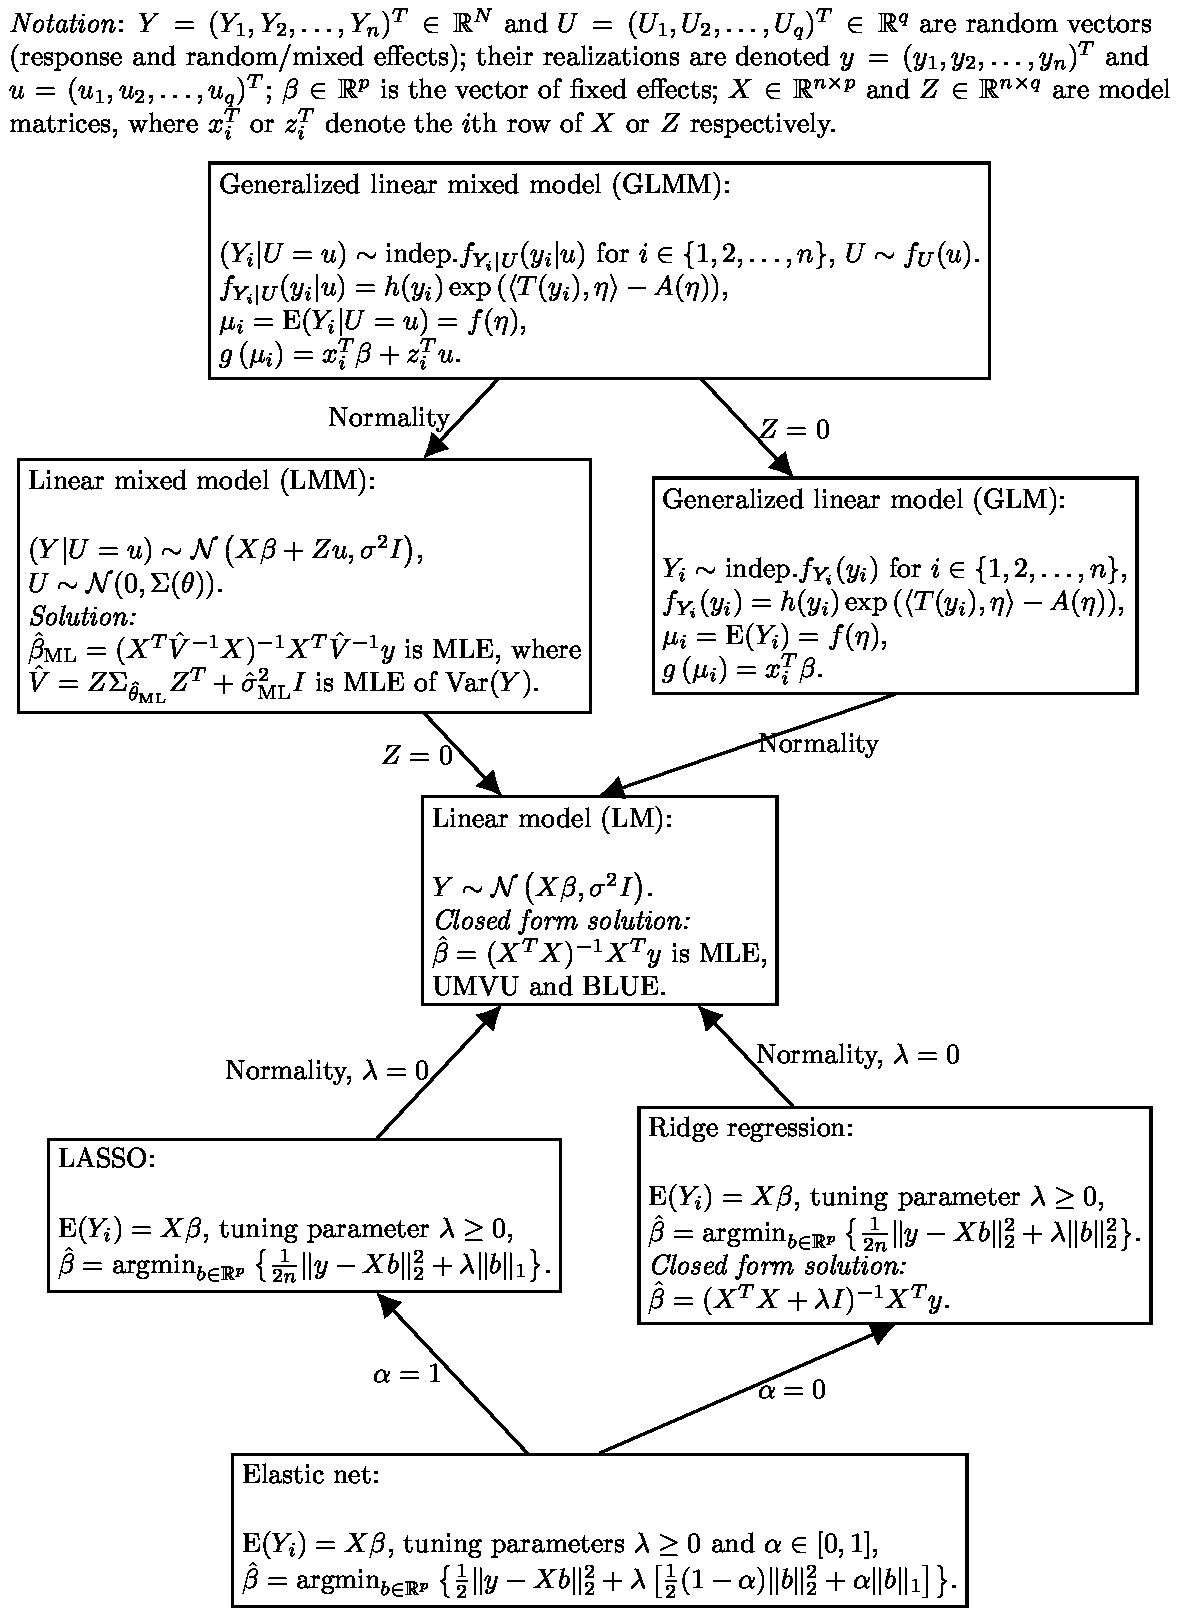
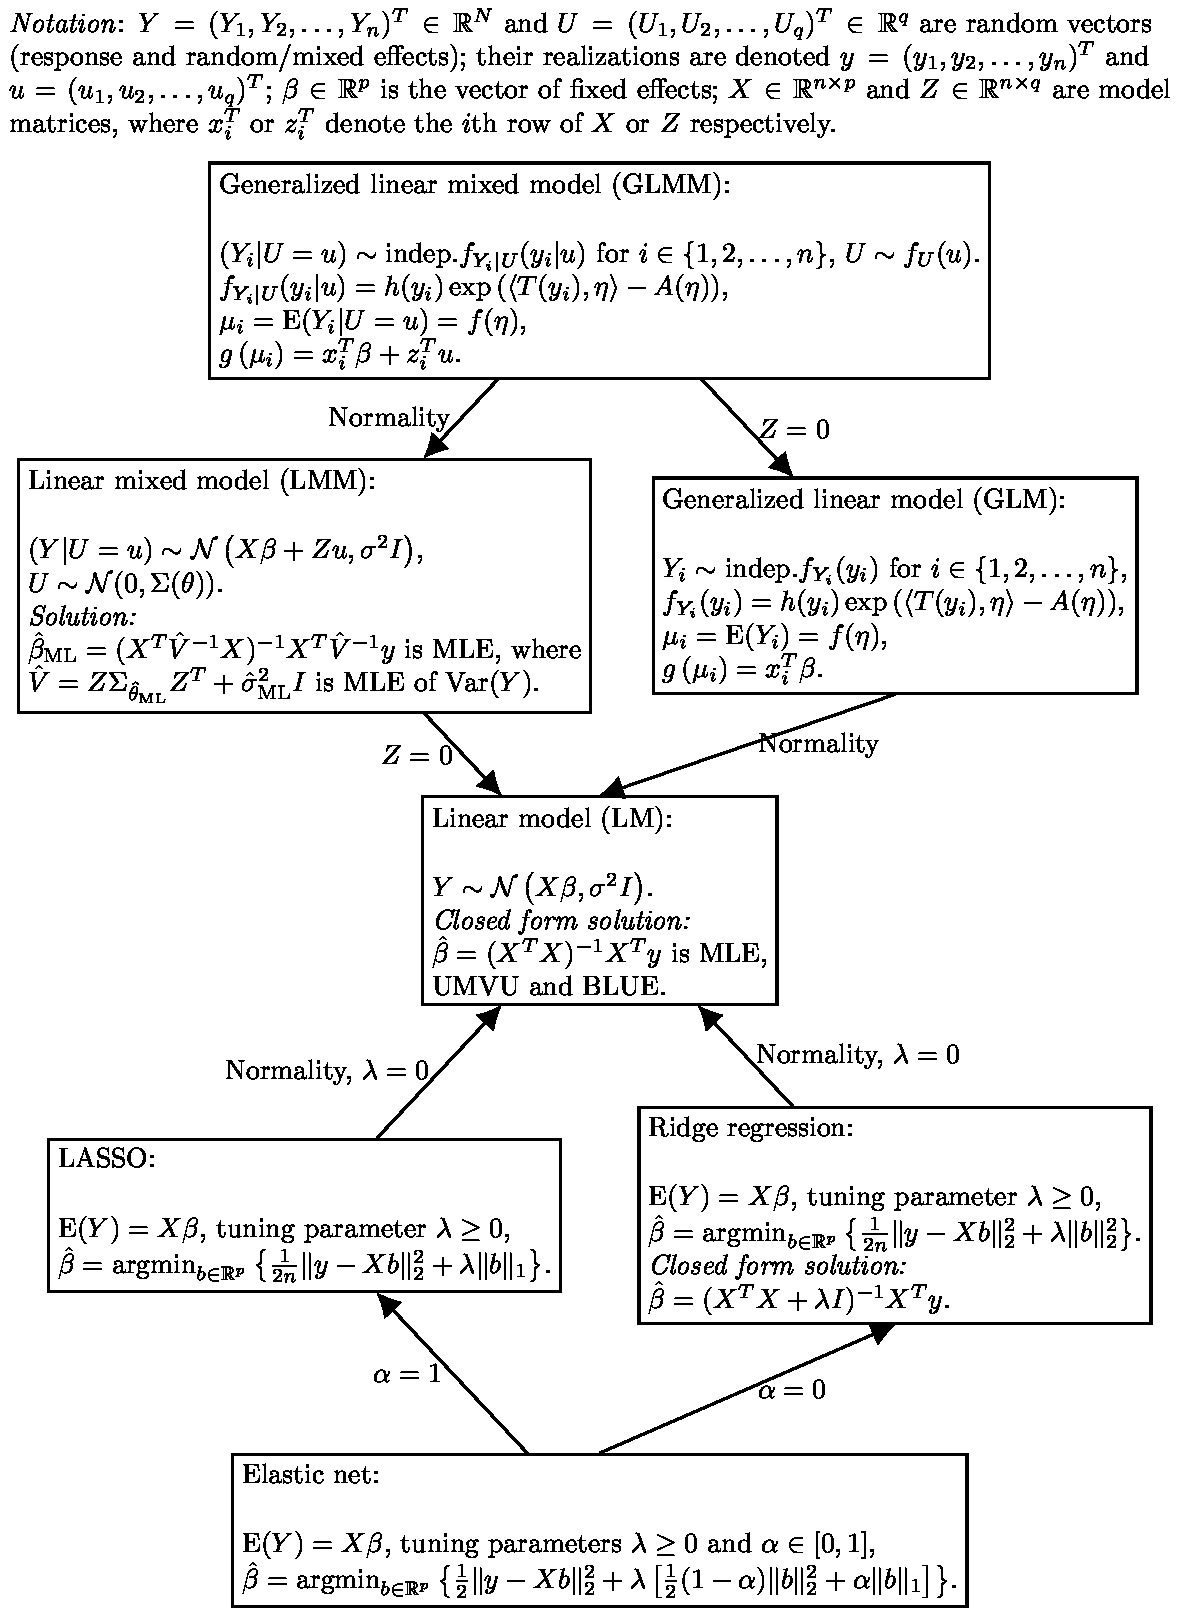
fixes a typo

diff --git a/flowchart.tex b/flowchart.tex
@@ -48,7 +48,7 @@
                     UMVU and BLUE.} 
                   child { node[draw, align=left] (LASSO)
                             {LASSO:\\ \vspace{1pt} \\
-                            $\mathrm{E}(Y_i) = X\beta$, tuning parameter $\lambda \geq 0$,\\
+                            $\mathrm{E}(Y) = X\beta$, tuning parameter $\lambda \geq 0$,\\
                             $\hat{\beta} = \mathrm{argmin}_{b\in\R^p} \left\{ \frac{1}{2n} \|y - Xb\|_2^2 + \lambda \|b\|_1 \right\}$.}
                           child [missing]
                           child [missing]
@@ -57,7 +57,7 @@
                           child [missing]
                           child { node[draw, align=left] (Elastic)
                                     {Elastic net:\\ \vspace{1pt} \\
-                                    $\mathrm{E}(Y_i) = X\beta$, tuning parameters $\lambda \geq 0$ and $\alpha\in[0,1]$,\\
+                                    $\mathrm{E}(Y) = X\beta$, tuning parameters $\lambda \geq 0$ and $\alpha\in[0,1]$,\\
                                     $\hat{\beta} = \mathrm{argmin}_{b\in\R^p} \left\{ \frac{1}{2} \|y - Xb\|_2^2 + \lambda \left[ \frac{1}{2}(1-\alpha)\|b\|_2^2 + \alpha\|b\|_1 \right] \right\}$.} 
                                   % edge label for Elastic net-LASSO edge
                                   edge from parent[<-] node[left, draw=none] {$\alpha=1$} }
@@ -69,7 +69,7 @@
                   child [missing]
                   child { node[draw, align=left] (Ridge)
                             {Ridge regression:\\ \vspace{1pt} \\
-                            $\mathrm{E}(Y_i) = X\beta$, tuning parameter $\lambda \geq 0$,\\
+                            $\mathrm{E}(Y) = X\beta$, tuning parameter $\lambda \geq 0$,\\
                             $\hat{\beta} = \mathrm{argmin}_{b\in\R^p} \left\{ \frac{1}{2n} \|y - Xb\|_2^2 + \lambda \|b\|_2^2 \right\}$.\\
                             \emph{Closed form solution:}\\
                             $\hat{\beta} = (X^T X + \lambda I)^{-1} X^T y$.}
